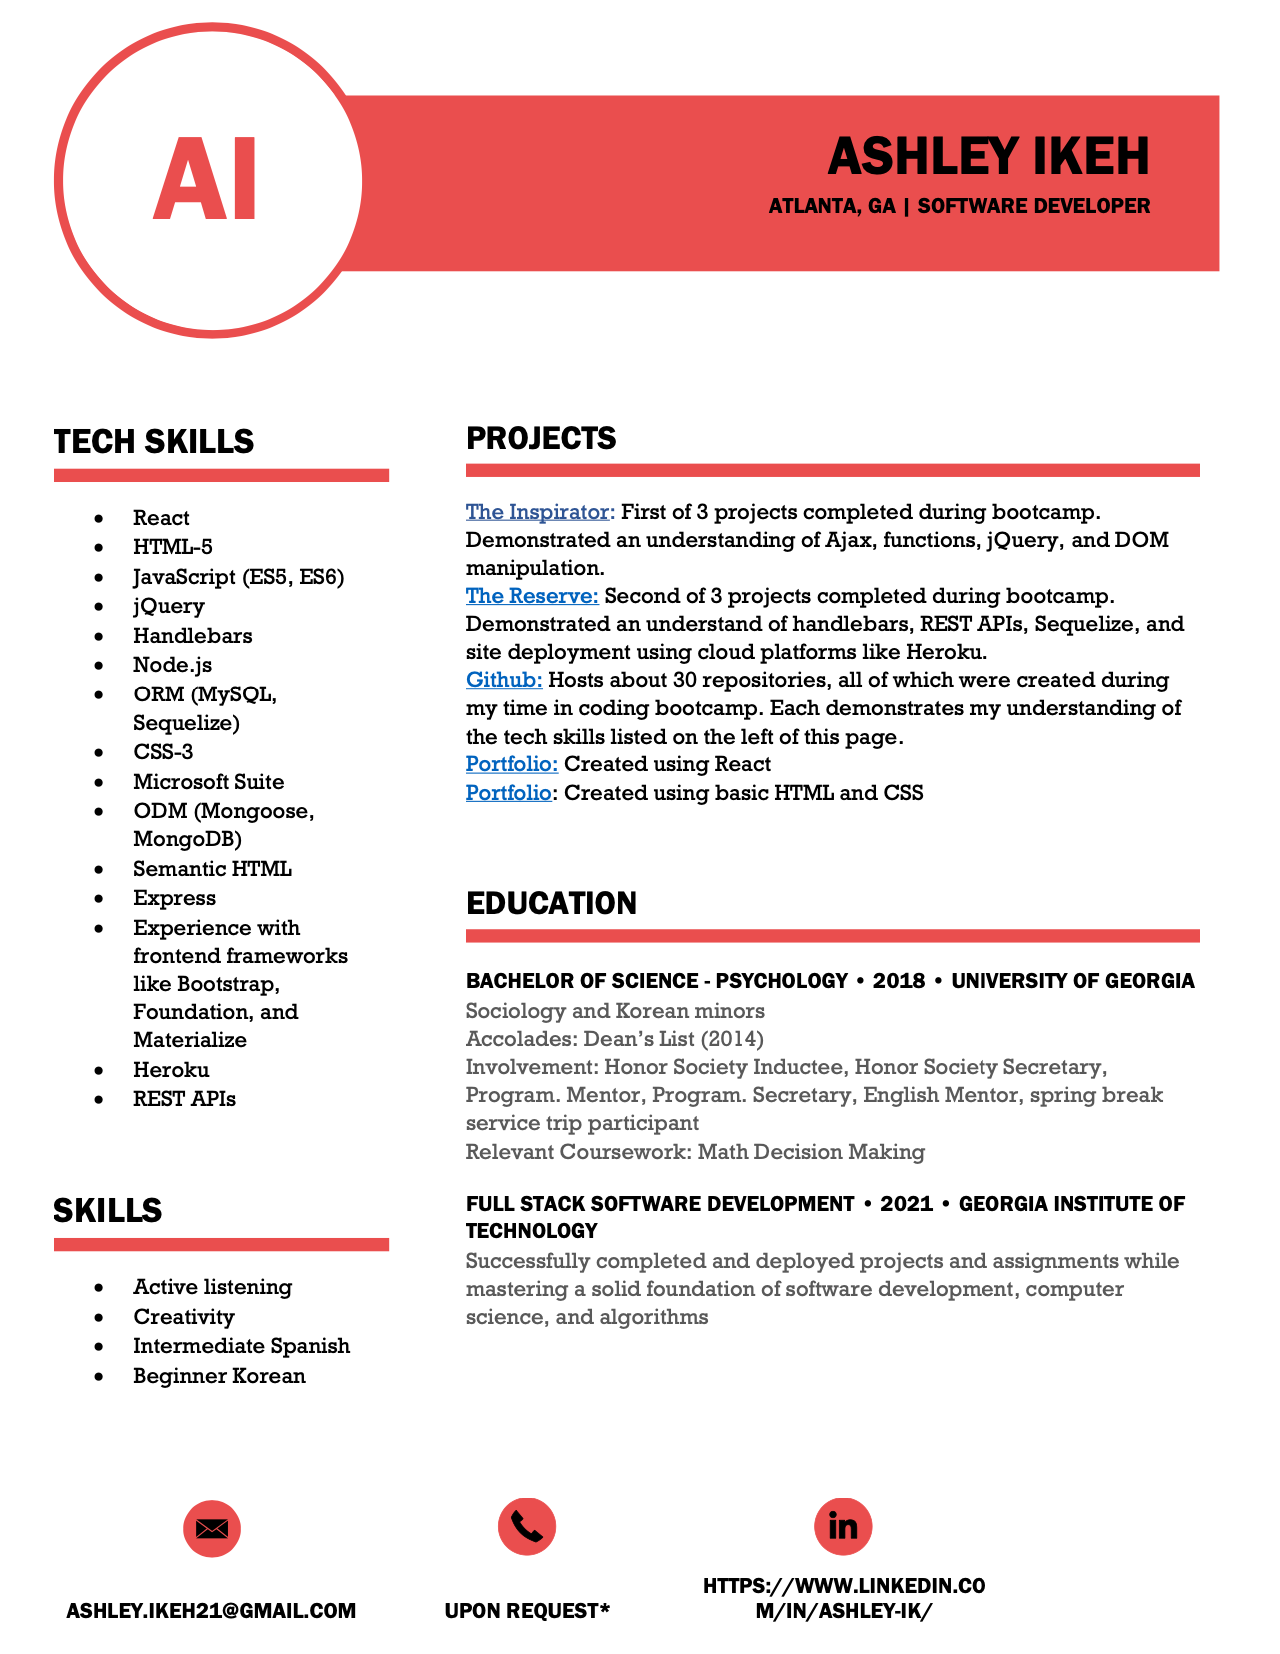
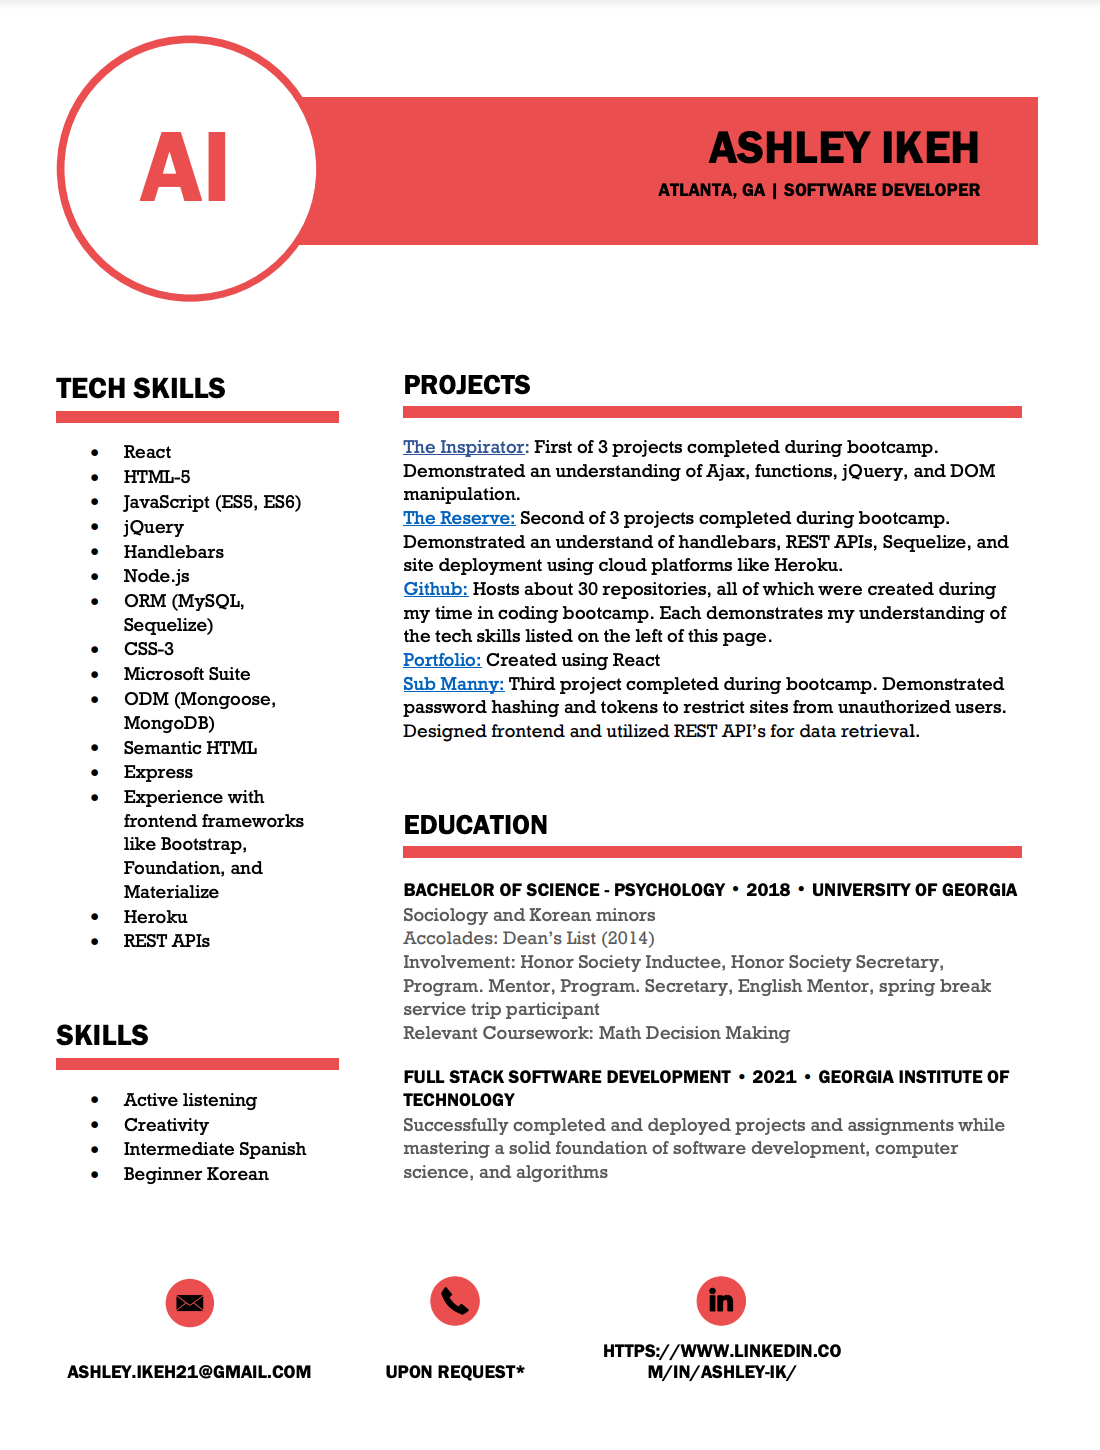
Added Sub Manny to the projects page. Also Added the Sub Manny thumbnail to the assets folder. Replaced the resume png with an updated one that also has Sub Manny linked to it.

diff --git a/src/containers/ProjectsPage/ProjectsPage.jsx b/src/containers/ProjectsPage/ProjectsPage.jsx
@@ -10,6 +10,7 @@ import Budget from '../../Assets/Budget.png';
 import Scheduler from '../../Assets/Scheduler.png';
 import Weather from '../../Assets/Weather.png';
 import Reserve from '../../Assets/Reserve.png';
+import Submanny from '../../Assets/Submanny.png';
 
 const ProjectsPage = () => {
   return (
@@ -26,6 +27,17 @@ const ProjectsPage = () => {
         </div>
         <div className="row">
           <div className="col">
+            <Projects
+              title="Sub Manny"
+              description="No one likes to be surprised by random subscription price increases. With Sub Manny, you'll get notified before you're charged!"
+              link="https://github.com/Aikeh2021/subscription-manager"
+              site="https://boiling-journey-74144.herokuapp.com/"
+              siteName="Visit The Inspirator"
+              updated="Last updated February 2021"
+              image={Submanny}
+              alt="Sub Manny Thumbnail"
+              contribution="I wore every hat possible during this project. I was primarily responsible for the frontend design and coded most the of pages featured on this site. Though I did not propose the idea for the website, I was the driving force behind it's functionality and did the engineering to solve all of the obstacles we faced in bringing this website to life. I was really proud of my work during this project and feel that it largely reflects how much growth I made during my time in bootcamp."
+            />
             <Projects
               title="The Inspirator"
               description="The Inspirator: an application to help unlock creativity for persons needing a fresh approach. "
